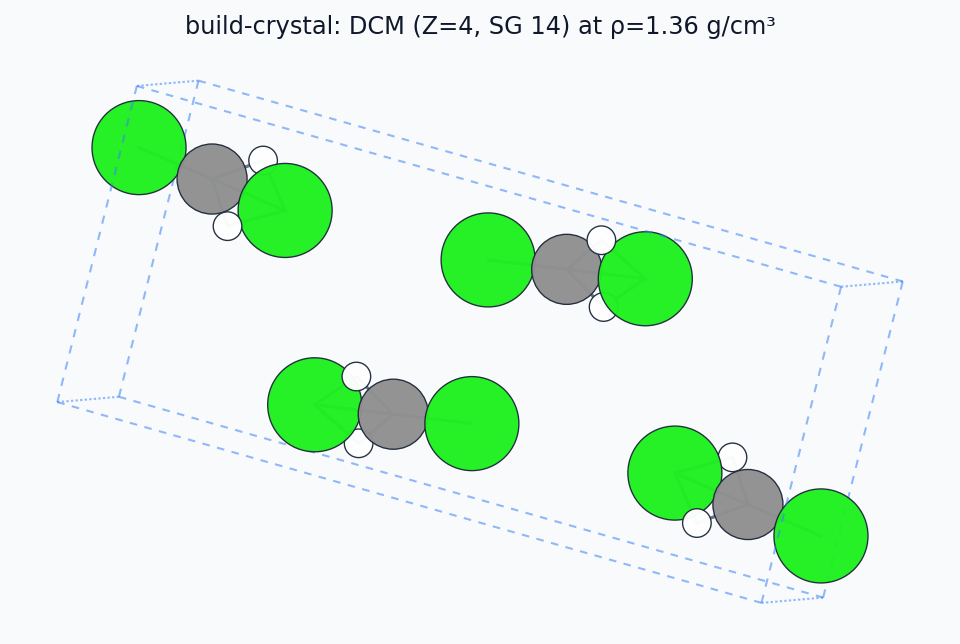
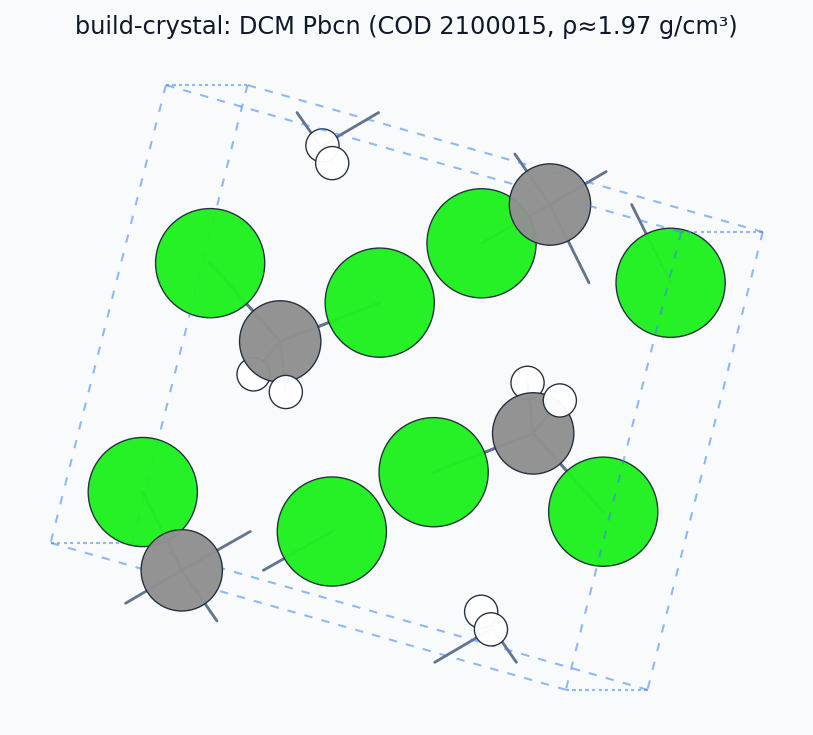
Update DCM crystal documentation and add experimental CIF
- Added the experimental DCM crystal structure (Pbcn, COD 2100015) to the project, enhancing the available data for structure building.
- Updated documentation to reflect the use of the experimental structure, including new instructions for generating extxyz files and improved density specifications.
- Revised CLI commands and examples to utilize the new CIF, ensuring accurate representation of the DCM crystal in generated outputs.
- Enhanced figure generation to display the experimental structure, improving clarity in documentation visuals.

diff --git a/scripts/generate_docs_figures.py b/scripts/generate_docs_figures.py
@@ -249,40 +249,51 @@ def _fallback_crystal_atoms() -> Atoms:
 
 
 def figure_build_crystal(out: Path) -> bool:
-    """PyXtal DCM cell scaled to solid density when available; else ASE fallback."""
+    """Experimental DCM Pbcn cell (COD [phone redacted]) when ASE can read it; else PyXtal/ASE fallback."""
     try:
-        from mmml.interfaces.pyxtal_placement import (
-            MolecularCrystalBuildRequest,
-            build_molecular_crystal_random,
-            have_pyxtal,
-            scale_atoms_cell_to_density,
-        )
-        from mmml.paths import default_dcm_molecule_xyz
+        from ase.io import read
 
-        if have_pyxtal():
-            dcm_xyz = str(default_dcm_molecule_xyz())
-            result = build_molecular_crystal_random(
-                MolecularCrystalBuildRequest(
-                    molecules=[dcm_xyz],
-                    stoichiometry=[4],
-                    space_group=14,
-                    dimension=3,
-                    factor=1.0,
-                    seed=42,
-                    max_attempts=40,
-                )
-            )
-            atoms = result.atoms
-            scale_atoms_cell_to_density(atoms, 1.36)
-            title = "build-crystal: DCM (Z=4, SG 14) at ρ=1.36 g/cm³"
+        from mmml.paths import default_dcm_crystal_cif
+
+        cif = default_dcm_crystal_cif()
+        if cif.is_file():
+            atoms = read(str(cif))
+            title = "build-crystal: DCM Pbcn (COD 2100015, ρ≈1.97 g/cm³)"
             rotation = "15x,70y,0z"
         else:
-            raise ImportError("pyxtal not installed")
+            raise FileNotFoundError(cif)
     except Exception as exc:
-        print(f"build-crystal figure: using ASE fallback ({exc})", file=sys.stderr)
-        atoms = _fallback_crystal_atoms()
-        title = "build-crystal: benzene dimer in periodic cell (illustrative)"
-        rotation = "30x,55y,0z"
+        print(f"build-crystal figure: using PyXtal/ASE fallback ({exc})", file=sys.stderr)
+        try:
+            from mmml.interfaces.pyxtal_placement import (
+                MolecularCrystalBuildRequest,
+                build_molecular_crystal_random,
+                have_pyxtal,
+            )
+            from mmml.paths import default_dcm_molecule_xyz
+
+            if have_pyxtal():
+                result = build_molecular_crystal_random(
+                    MolecularCrystalBuildRequest(
+                        molecules=[str(default_dcm_molecule_xyz())],
+                        stoichiometry=[4],
+                        space_group=60,
+                        dimension=3,
+                        factor=1.0,
+                        seed=42,
+                        max_attempts=40,
+                    )
+                )
+                atoms = result.atoms
+                title = "build-crystal: DCM (Z=4, Pbcn) PyXtal placement"
+                rotation = "15x,70y,0z"
+            else:
+                raise ImportError("pyxtal not installed")
+        except Exception as exc2:
+            print(f"build-crystal figure: benzene dimer fallback ({exc2})", file=sys.stderr)
+            atoms = _fallback_crystal_atoms()
+            title = "build-crystal: benzene dimer in periodic cell (illustrative)"
+            rotation = "30x,55y,0z"
 
     _save_structure_figure(
         atoms,

diff --git a/scripts/generate_cli_docs.py b/scripts/generate_cli_docs.py
@@ -147,7 +147,7 @@ COMMAND_FIGURES: dict[str, list[tuple[str, str]]] = {
         ("Packed acetone box (illustrative)", "../../images/structures/make-box-acetone.png"),
     ],
     "build-crystal": [
-        ("DCM crystal / periodic cell (ρ=1.36 g/cm³)", "../../images/structures/build-crystal.png"),
+        ("DCM crystal / periodic cell (experimental Pbcn)", "../../images/structures/build-crystal.png"),
     ],
     "liquid-box": [
         ("Density prep ladder (schematic)", "../../images/plots/liquid-box-density-ladder.png"),
@@ -203,28 +203,34 @@ mmml env --json
 ```
 """,
     "build-crystal": """
-Build molecular crystals with PyXtal (`uv sync --extra chem`). DCM (CH₂Cl₂) is
-not in PyXtal's SMILES database — use the bundled monomer XYZ or your own
-`mmml make-res --res DCM` export.
+Build molecular crystals with PyXtal (`uv sync --extra chem`). For **DCM**
+(CH₂Cl₂), prefer the deposited experimental structure
+([CCDC doi:10.5517/cc9lyjb](https://www.ccdc.cam.ac.uk/structures/search?id=doi:10.5517/cc9lyjb&sid=DataCite);
+COD [2100015](https://www.crystallography.net/2100015.html)) — **Pbcn**, Z=4,
+ρ≈**1.97 g/cm³** at 1.63 GPa / 293 K. PyXtal cannot build from `C(Cl)Cl` SMILES;
+use the bundled monomer XYZ or CIF.
 
 ```bash
-# DCM crystal at solid density (~1.36 g/cm³ at 298 K)
+# Experimental crystal → extxyz / NPZ handoff (no PyXtal)
+python -c "
+from ase.io import read, write
+from mmml.paths import default_dcm_crystal_cif
+atoms = read(default_dcm_crystal_cif())
+write('dcm_expt.extxyz', atoms)
+"
+
+# PyXtal random placement in the same space group (SG 60 = Pbcn)
 mmml build-crystal \\
   -m "$(python -c 'from mmml.paths import default_dcm_molecule_xyz; print(default_dcm_molecule_xyz())')" \\
-  --spg 14 --z 4 \\
-  --target-density-g-cm3 1.36 \\
-  -o dcm_solid.extxyz
+  --spg 60 --z 4 \\
+  --target-density-g-cm3 1.972 \\
+  -o dcm_pyxtal.extxyz
 
-# Benzene (SMILES works for aromatics in PyXtal's DB)
+# Benzene (SMILES in PyXtal DB)
 mmml build-crystal -m c1ccccc1 --spg 14 --z 2 -o benzene.extxyz
-
-# Supercell + NPZ handoff
-mmml build-crystal -m monomer.xyz --spg 4 --supercell 2,2,2 -o super.cif
-mmml build-crystal -m monomer.xyz --spg 14 --z 2 -o seed.npz
 ```
 
-Liquid DCM boxes use **1.326 g/cm³** (`liquid-box`, `md-system`); solid
-crystal seeds often target **1.36 g/cm³**.
+Liquid DCM boxes use **1.326 g/cm³** (`liquid-box`, `md-system`).
 """,
 }
 

diff --git a/tests/unit/test_package_bundled_paths.py b/tests/unit/test_package_bundled_paths.py
@@ -11,6 +11,7 @@ from mmml.paths import (
     bundled_file,
     crystal_image_str_source,
     default_aco_template_pdb,
+    default_dcm_crystal_cif,
     default_dcm_molecule_xyz,
     default_meoh_template_pdb,
 )
@@ -48,6 +49,14 @@ def test_default_dcm_molecule_xyz_is_bundled() -> None:
     assert path.is_file(), f"missing bundled DCM monomer XYZ: {path}"
     text = path.read_text(encoding="utf-8")
     assert "Cl" in text and "DCM" in text.splitlines()[1]
+
+
+def test_default_dcm_crystal_cif_is_bundled() -> None:
+    path = default_dcm_crystal_cif()
+    assert path.is_file(), f"missing bundled DCM crystal CIF: {path}"
+    text = path.read_text(encoding="utf-8")
+    assert "P b c n" in text or "Pbcn" in text
+    assert "_cell_formula_units_Z" in text
 
 
 def test_pycharmm_interface_compat_alias() -> None:

diff --git a/mmml/paths.py b/mmml/paths.py
@@ -32,3 +32,8 @@ def crystal_image_str_source() -> Path:
 def default_dcm_molecule_xyz() -> Path:
     """Bundled DCM (CH2Cl2) monomer XYZ for ``build-crystal`` / PyXtal."""
     return bundled_file("data", "molecules", "dcm.xyz")
+
+
+def default_dcm_crystal_cif() -> Path:
+    """Experimental DCM crystal (Pbcn, COD 2100015 / CCDC doi:10.5517/cc9lyjb)."""
+    return bundled_file("data", "structures", "dcm_pbcn_cod2100015.cif")

diff --git a/mmml/cli/misc/build_crystal.py b/mmml/cli/misc/build_crystal.py
@@ -84,7 +84,7 @@ def build_parser() -> argparse.ArgumentParser:
         metavar="RHO",
         help=(
             "Scale unit cell after build to this mass density (g/cm³). "
-            "Solid DCM ≈ 1.36; liquid DCM ≈ 1.326"
+            "Liquid DCM ≈ 1.326; experimental Pbcn crystal (COD 2100015) ≈ 1.97"
         ),
     )
     parser.add_argument(

diff --git a/docs/cli/structure-building.md b/docs/cli/structure-building.md
@@ -109,43 +109,56 @@ offsets = [(4, 4, 4), (12, 4, 6), (6, 11, 5), (14, 12, 8)]
 Builds molecular crystals with space-group symmetry via PyXtal; exports ASE-readable
 structures for optimization or `md-system` handoff.
 
-### DCM (CH₂Cl₂) at solid density
+### DCM (CH₂Cl₂) — experimental crystal
 
-PyXtal does not resolve `C(Cl)Cl` from its molecule database. Use the bundled
-monomer XYZ (or `mmml make-res --res DCM` → export XYZ). After PyXtal placement,
-`--target-density-g-cm3` uniformly scales the unit cell to the requested mass
-density.
+The deposited structure at
+[CCDC doi:10.5517/cc9lyjb](https://www.ccdc.cam.ac.uk/structures/search?id=doi:10.5517/cc9lyjb&sid=DataCite)
+(Podsiadło *et al.*, *Acta Cryst.* B **2005**, 61, 595; COD
+[2100015](https://www.crystallography.net/2100015.html)) is orthorhombic **Pbcn**
+(SG 60), Z=4, measured at **1.63 GPa / 293 K**:
 
-| Phase | Typical ρ (g/cm³) | MMML knob |
-|-------|-------------------|-----------|
-| Liquid DCM | 1.326 | `liquid-box`, `md-system` solvent props |
-| Solid DCM | 1.36 | `build-crystal --target-density-g-cm3 1.36` |
+| Quantity | Value |
+|----------|-------|
+| *a*, *b*, *c* | 3.924, 7.793, 9.335 Å |
+| ρ (experimental) | **1.972 g/cm³** |
+| Low-*T* phase (153 K, 0.1 MPa) | same SG; *a*≈4.25, *b*≈8.14, *c*≈9.49 Å ([Kawaguchi *et al.* 1973](https://doi.org/10.1246/bcsj.46.62)) |
+
+MMML ships the CIF as `default_dcm_crystal_cif()`. For handoff, read it with ASE
+(no PyXtal required). PyXtal random placement can approximate the same SG with
+`--spg 60 --z 4` and optional `--target-density-g-cm3 1.972`.
+
+| Phase | Typical ρ (g/cm³) | MMML source |
+|-------|-------------------|-------------|
+| Liquid DCM | 1.326 | `liquid-box`, `md-system` |
+| Crystal (this CIF) | 1.972 | bundled CIF / scale PyXtal build |
 
 ```bash
-# Install PyXtal
+# Experimental unit cell → extxyz (recommended seed)
+python -c "
+from ase.io import read, write
+from mmml.paths import default_dcm_crystal_cif
+write('dcm_expt.extxyz', read(default_dcm_crystal_cif()))
+"
+
+# PyXtal placement in Pbcn, scaled to experimental density
 uv sync --extra chem
-
-# DCM crystal, space group 14, Z=4, scaled to solid density
 mmml build-crystal \\
   -m "$(python -c 'from mmml.paths import default_dcm_molecule_xyz; print(default_dcm_molecule_xyz())')" \\
-  --spg 14 --z 4 \\
-  --target-density-g-cm3 1.36 \\
+  --spg 60 --z 4 \\
+  --target-density-g-cm3 1.972 \\
   --seed 42 \\
-  -o dcm_solid.extxyz
+  -o dcm_pyxtal.extxyz
 
-# Larger periodic box for MD handoff
+# Supercell for larger periodic MD boxes
 mmml build-crystal \\
   -m "$(python -c 'from mmml.paths import default_dcm_molecule_xyz; print(default_dcm_molecule_xyz())')" \\
-  --spg 14 --z 4 --supercell 2,2,2 \\
-  --target-density-g-cm3 1.36 \\
+  --spg 60 --z 4 --supercell 2,2,2 \\
+  --target-density-g-cm3 1.972 \\
   -o dcm_super.extxyz
-
-# NPZ reference for md-system / cluster builders
-mmml build-crystal \\
-  -m "$(python -c 'from mmml.paths import default_dcm_molecule_xyz; print(default_dcm_molecule_xyz())')" \\
-  --spg 14 --z 4 --target-density-g-cm3 1.36 \\
-  -o dcm_seed.npz
 ```
+
+PyXtal does not resolve `C(Cl)Cl` SMILES — use the bundled monomer XYZ or
+`mmml make-res --res DCM` export.
 
 ### Other examples
 
@@ -154,11 +167,11 @@ mmml build-crystal -m c1ccccc1 --spg 14 --z 2 -o benzene.extxyz
 mmml build-crystal -m monomer.xyz --spg 4 --supercell 2,2,2 -o super.cif
 ```
 
-![DCM crystal / periodic cell (ρ=1.36 g/cm³)](../images/structures/build-crystal.png)
+![DCM crystal / periodic cell (experimental Pbcn)](../images/structures/build-crystal.png)
 
-With `uv sync --extra chem`, the doc figure uses a real PyXtal DCM draw (SG 14,
-Z=4) scaled to 1.36 g/cm³. Without PyXtal, the script falls back to an
-illustrative ASE periodic cell.
+The doc figure uses the bundled COD 2100015 coordinates when ASE is available.
+Without the CIF, the generator falls back to PyXtal (Pbcn) or an illustrative
+benzene dimer cell.
 
 See also: [PyXtal tests on GitHub](https://github.com/EricBoittier/mmml/blob/main/tests/functionality/pyxtal/README.md).
 

diff --git a/docs/cli/commands/build-crystal.md b/docs/cli/commands/build-crystal.md
@@ -3,28 +3,34 @@
 Symmetry-aware crystals (PyXtal).
 
 
-Build molecular crystals with PyXtal (`uv sync --extra chem`). DCM (CH₂Cl₂) is
-not in PyXtal's SMILES database — use the bundled monomer XYZ or your own
-`mmml make-res --res DCM` export.
+Build molecular crystals with PyXtal (`uv sync --extra chem`). For **DCM**
+(CH₂Cl₂), prefer the deposited experimental structure
+([CCDC doi:10.5517/cc9lyjb](https://www.ccdc.cam.ac.uk/structures/search?id=doi:10.5517/cc9lyjb&sid=DataCite);
+COD [2100015](https://www.crystallography.net/2100015.html)) — **Pbcn**, Z=4,
+ρ≈**1.97 g/cm³** at 1.63 GPa / 293 K. PyXtal cannot build from `C(Cl)Cl` SMILES;
+use the bundled monomer XYZ or CIF.
 
 ```bash
-# DCM crystal at solid density (~1.36 g/cm³ at 298 K)
+# Experimental crystal → extxyz / NPZ handoff (no PyXtal)
+python -c "
+from ase.io import read, write
+from mmml.paths import default_dcm_crystal_cif
+atoms = read(default_dcm_crystal_cif())
+write('dcm_expt.extxyz', atoms)
+"
+
+# PyXtal random placement in the same space group (SG 60 = Pbcn)
 mmml build-crystal \
   -m "$(python -c 'from mmml.paths import default_dcm_molecule_xyz; print(default_dcm_molecule_xyz())')" \
-  --spg 14 --z 4 \
-  --target-density-g-cm3 1.36 \
-  -o dcm_solid.extxyz
+  --spg 60 --z 4 \
+  --target-density-g-cm3 1.972 \
+  -o dcm_pyxtal.extxyz
 
-# Benzene (SMILES works for aromatics in PyXtal's DB)
+# Benzene (SMILES in PyXtal DB)
 mmml build-crystal -m c1ccccc1 --spg 14 --z 2 -o benzene.extxyz
-
-# Supercell + NPZ handoff
-mmml build-crystal -m monomer.xyz --spg 4 --supercell 2,2,2 -o super.cif
-mmml build-crystal -m monomer.xyz --spg 14 --z 2 -o seed.npz
 ```
 
-Liquid DCM boxes use **1.326 g/cm³** (`liquid-box`, `md-system`); solid
-crystal seeds often target **1.36 g/cm³**.
+Liquid DCM boxes use **1.326 g/cm³** (`liquid-box`, `md-system`).
 
 ## Usage
 
@@ -68,8 +74,8 @@ options:
                         1.0)
   --target-density-g-cm3 RHO
                         Scale unit cell after build to this mass density
-                        (g/cm³). Solid DCM ≈ 1.36; liquid DCM ≈ 1.326
-                        (default: None)
+                        (g/cm³). Liquid DCM ≈ 1.326; experimental Pbcn crystal
+                        (COD 2100015) ≈ 1.97 (default: None)
   --seed SEED           RNG seed for reproducible PyXtal trials (default:
                         None)
   --attempts ATTEMPTS   Maximum PyXtal from_random retries (default: 20)
@@ -99,7 +105,7 @@ ASE optimization (optional):
 
 ## Example structures
 
-![DCM crystal / periodic cell (ρ=1.36 g/cm³)](../../images/structures/build-crystal.png)
+![DCM crystal / periodic cell (experimental Pbcn)](../../images/structures/build-crystal.png)
 
 More detail: [Structure building guide](../structure-building.md).
 

diff --git a/tests/functionality/pyxtal/README.md b/tests/functionality/pyxtal/README.md
@@ -11,10 +11,17 @@ uv sync --extra chem
 Generate a symmetry-aware molecular crystal and export ASE-compatible geometry:
 
 ```bash
-# DCM solid crystal at ρ = 1.36 g/cm³ (bundled monomer XYZ)
+# Experimental DCM crystal (Pbcn, COD 2100015 / CCDC doi:10.5517/cc9lyjb)
+python -c "
+from ase.io import read, write
+from mmml.paths import default_dcm_crystal_cif
+write('dcm_expt.extxyz', read(default_dcm_crystal_cif()))
+"
+
+# PyXtal random placement in Pbcn, scaled to experimental ρ ≈ 1.972 g/cm³
 mmml build-crystal \
   -m "$(python -c 'from mmml.paths import default_dcm_molecule_xyz; print(default_dcm_molecule_xyz())')" \
-  --spg 14 --z 4 --target-density-g-cm3 1.36 -o dcm_solid.extxyz
+  --spg 60 --z 4 --target-density-g-cm3 1.972 -o dcm_pyxtal.extxyz
 
 # Random molecular crystal (space group 14, Z=2 for one species)
 mmml build-crystal -m benzene.xyz --spg 14 --z 2 -o crystal.extxyz
@@ -32,7 +39,8 @@ mmml build-crystal -m monomer.xyz --spg 4 --z 2 -o seed.npz
 
 **DCM note:** SMILES `C(Cl)Cl` is not in PyXtal's molecule DB — use
 `default_dcm_molecule_xyz()` or an XYZ from `mmml make-res --res DCM`.
-Liquid DCM density is **1.326 g/cm³**; solid crystal seeds often use **1.36**.
+Experimental crystal: **Pbcn**, ρ≈**1.972 g/cm³** (COD 2100015); liquid DCM is
+**1.326 g/cm³**.
 
 ## Python API
 